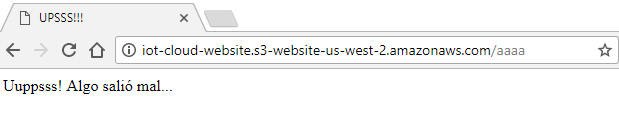
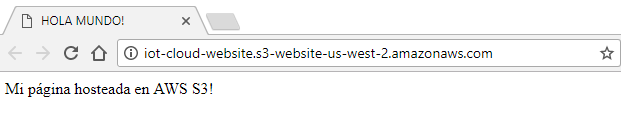
static web pages

diff --git a/AWS Cloud/S3/AWS_S3_Parte_3.md b/AWS Cloud/S3/AWS_S3_Parte_3.md
@@ -260,30 +260,25 @@ Como vimos anteriormente, brindar acceso público a uno o varios objetos almacen
 
 Con Amazon S3, podemos hostear fácilmente un sitio web estático completo, con un costo muy bajo, y sobre una solución que provee alta disponibilidad y puede escalar automáticamente para enfrentar los aumentos de demanda de nuestro sitio.
 
-* Comencemos por crear un bucket para nuestro sitio web (puede hacerlo de la consola web):
-  ```bash
-  $ aws s3 mb s3://iot-cloud-website
-  make_bucket: iot-cloud-website
-  ```
+Comencemos por crear un bucket para nuestro sitio web (puede hacerlo de la consola web):
+```bash
+$ aws s3 mb s3://iot-cloud-website
+make_bucket: iot-cloud-website
+```
 
-* Luego en las propiedades del bucket, podemos acceder a la sección de *Static website hosting* para configurarlo:
+Luego en las propiedades del bucket, podemos acceder a la sección de *Static website hosting* para configurarlo:
+![alt text](./images/S3_static_website_01.png)
 
-  ![alt text](./images/S3_static_website_01.png)
+Debemos especificar cuál es nuestra página principal *index.html* y opcionalmente una página para desplegar en caso que se intente acceder a un elemento inexistente *error.html* (errores de tipo 4XX).
 
+El link que se muestra en *Endpoint: http://iot-cloud-website.s3-website-us-west-2.amazonaws.com* será el link de acceso a nuestra página.
+![alt text](./images/S3_static_website_02.png)
 
-* Debemos especificar cuál es nuestra página principal *index.html* y opcionalmente una página para desplegar en caso que se intente acceder a un elemento inexistente *error.html* (errores de tipo 4XX).
+Opcionalmente, en *Redirect rules* podemos especificar reglas de redireccionamiento para ciertos objetos. Por ejemplo, supongamos que que renombramos un objeto del *bucket* que está referenciado en nuestra página web, podríamos poner aquí una regla que tome los requerimientos que se hagan al objeto original y los redirija hacia el objeto renombrado. Por otro lado, con *Redirect requests* podríamos redirigir todos los requerimientos que llegan a este *bucket* (a nuestra página estática) enviándolos a otro *bucket* o incluso a otro sitio web externo a S3. Puede revisar estas opciones en la documentación de referencia.
 
-  El link que se muestra en *Endpoint: http://iot-cloud-website.s3-website-us-west-2.amazonaws.com* nos llevará a nuestra página.
-  .
-  ![alt text](./images/S3_static_website_02.png)
+Recordemos que por defecto todos nuestros objetos son privados, por tanto debemos brindar permisos que habiliten el acceso de lectura a nuestros objetos dentro del bucket, para que se pueda acceder a nuestro sitio web.
 
-  * Opcionalmente podemos especificar reglas avanzadas para redireccionamiento, en formato XML (puede dirigirse a las referencias de documentación incluidas mas abajo para profundizar sobre esto).  
-
-  * O podríamos redirigir todos los requerimientos que llegan a este *bucket* enviándolos a otro *bucket* o incluso a otro sitio web externo a S3. Esto lo hacemos configurando la opción *Redirect requests*.
-  .
-
-* Recordemos que por defecto todos nuestros objetos son privados, por tanto debemos brindar permisos que habiliten el acceso de lectura a nuestros objetos dentro del bucket. Esto lo hacemos mediante la siguiente *bucket policy* (que explicaremos mas en detalle en la sección de Access Control) antes:
-
+Para esto, debemos configurar la siguiente *bucket policy* al *bucket* (esto lo explicaremos en la sección de Access Control):
 ```json
 {
     "Version": "2012-10-17",
@@ -302,7 +297,12 @@ Con Amazon S3, podemos hostear fácilmente un sitio web estático completo, con 
     ]
 }
 ```
-* Y por último, lo que nos resta hacer es subir nuestra página al bucket, particularmente los archivos que referenciamos *index.html* y *error.html*, así como el resto de estructura y contenido que necesitemos.
+
+Esto lo entendermos mejor en la sección de [Access Control](#access-control), por el momento solo configuremos esto dentro de *Permissions* - *Bucket Policy*:
+![alt text](./images/S3_static_website_03.png)
+
+
+Y por último, lo que nos resta hacer es subir nuestra página al bucket, particularmente los archivos que referenciamos *index.html* y *error.html*, así como el resto de estructura y contenido que necesitemos.
 
 ```bash
 $ aws s3 cp index.html s3://iot-cloud-website/
@@ -314,15 +314,14 @@ upload: .\error.html to s3://iot-cloud-website/error.html
 ```
 
 Ahora ya podemos acceder a nuestra página: http://iot-cloud-website.s3-website-us-west-2.amazonaws.com
-
 Y accedemos directamente a nuestro *index.html*
-![alt text](./images/S3_static_website_03.png)
-
-Y si vamos a una dirección que no existe, nos dirige a *error.html*
 ![alt text](./images/S3_static_website_04.png)
 
+Y si vamos a una dirección que no existe, nos dirige a *error.html*
+![alt text](./images/S3_static_website_05.png)
 
-Podemos combinar esta funcionalidad de AWS S3 Static Website Hosting con AWS Route 53 para poder usar nuestros propios nombres de dominio para nuestro sitio, en lugar de usar la dirección de *endpoint* provisto por Amazon (puede ver la documentación de referencia mas abajo).
+
+Podemos combinar esta funcionalidad de AWS S3 Static Website Hosting con AWS Route 53 para poder usar nuestros propios nombres de dominio para nuestro sitio en lugar de usar la dirección de *endpoint* provisto por Amazon.
 
 Ref.:
 * [How Do I Configure an S3 Bucket for Static Website Hosting?](http://docs.aws.amazon.com/es_es/AmazonS3/latest/user-guide/static-website-hosting.html)
